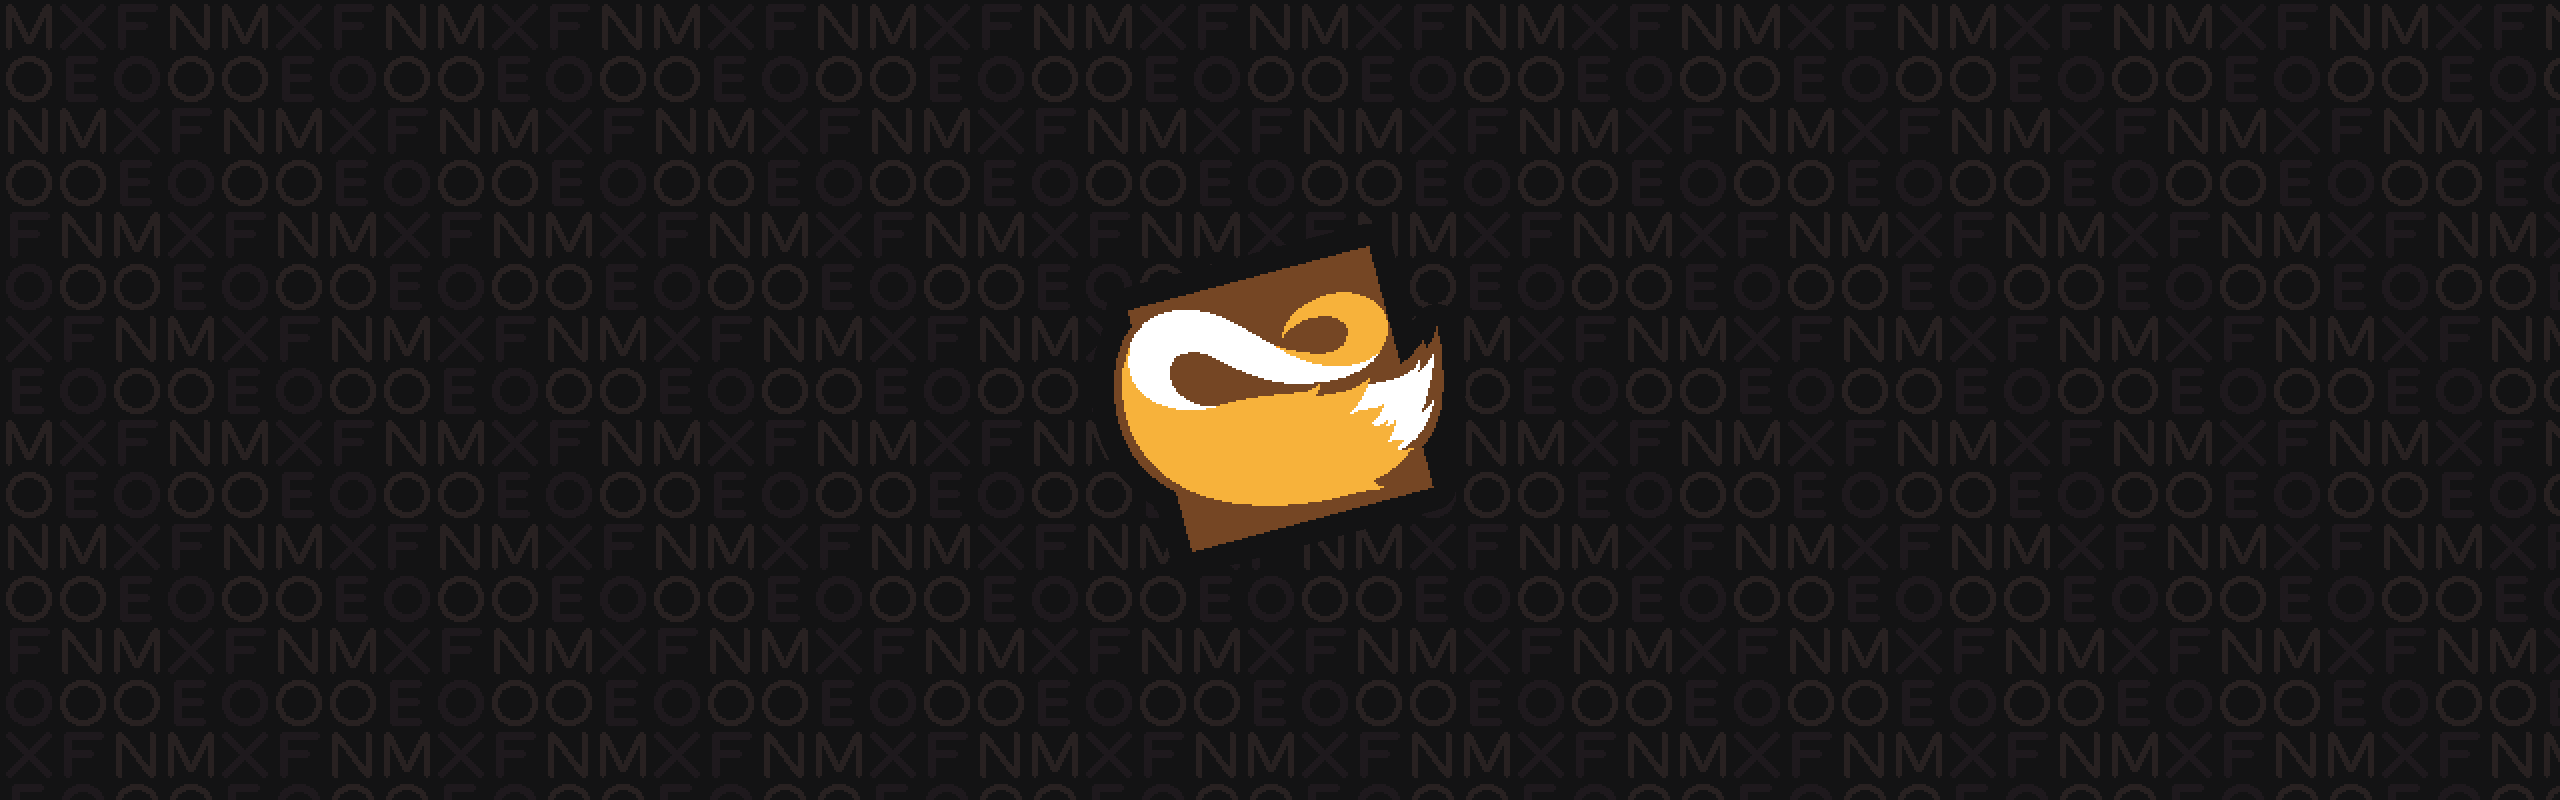
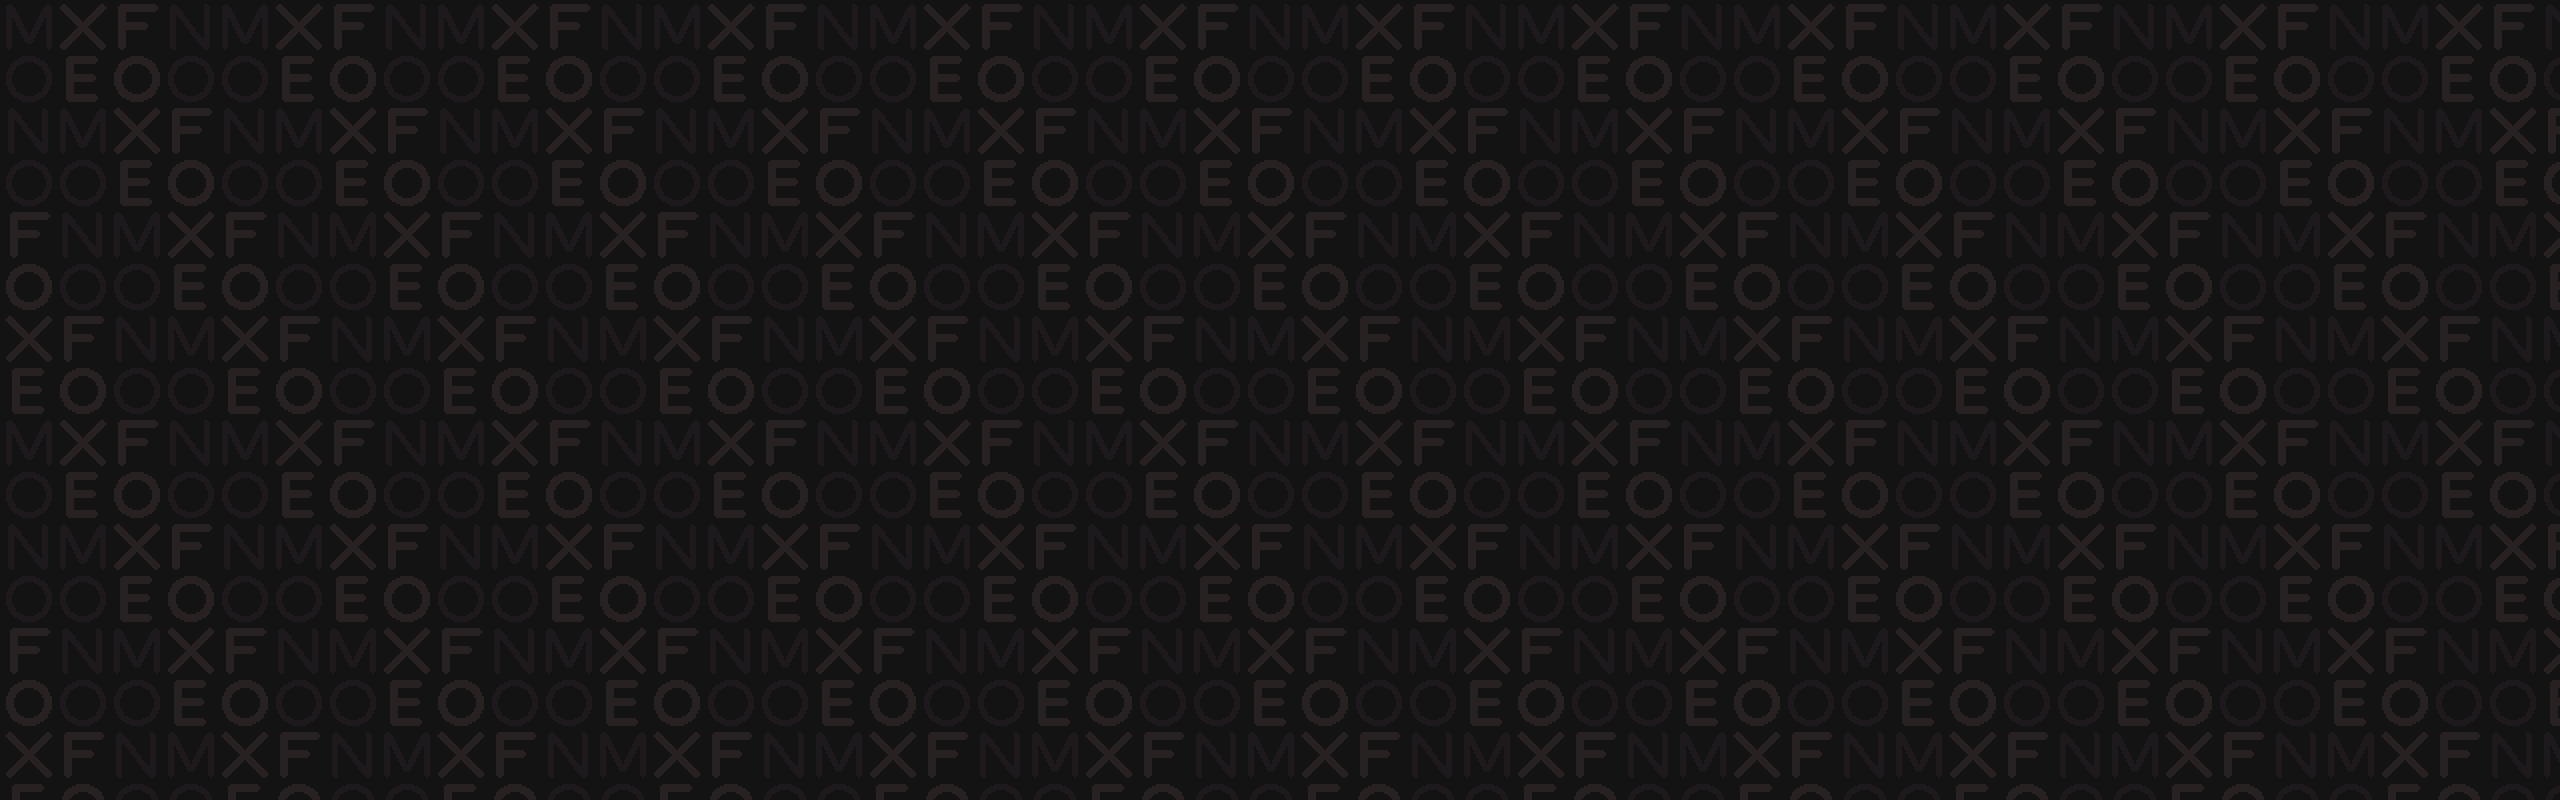
Finalized monofoxe page.

Changed region(s): [[0.4375, 0.3125, 0.5625, 0.6875]]

diff --git a/docs/monofoxe/index.html b/docs/monofoxe/index.html
@@ -13,35 +13,39 @@ Any manual changes WILL be lost.
 
 <header class="sticky top-0 font-foxe z-50"> <nav class="bg-foxe-dark text-foxe-light px-4 lg:py-1.5 w-full shadow-2xl"> <div class="max-w-screen-xl mx-auto flex items-center"> <!-- Logo --> <a href="/" class="mr-6 flex-shrink-0 select-none"> <img src="/assets/site/logo-header.png" class="h-16 lg:h-20" /> </a> <!-- Desktop Navigation --> <div class="hidden lg:flex flex-col flex-1 text-base"> <!-- Line --> <div class="h-7"></div> <div class="h-[1px] bg-foxe-light rounded-2xl mb-1.5 justify-center"></div> <!-- Links --> <div class="flex space-x-4 items-center"> <p class="text-foxe-medium text-3xl font-bold select-none">/</p> <a href="/games/" class="foxe-header-link relative group px-4 py-2"> <img src="/assets/site/crown.png" class="foxe-header-crown" alt="crown" /> games </a> <p class="text-foxe-medium text-3xl font-bold select-none">/</p> <a href="/monofoxe/" class="foxe-header-link relative group px-4 py-2"> <img src="/assets/site/crown.png" class="foxe-header-crown" alt="crown" /> monofoxe </a> <p class="text-foxe-medium text-3xl font-bold select-none">/</p> <a href="/software/" class="foxe-header-link relative group px-4 py-2"> <img src="/assets/site/crown.png" class="foxe-header-crown" alt="crown" /> software </a> <p class="text-foxe-medium text-3xl font-bold select-none">/</p> <a href="/contact/" class="foxe-header-link relative group px-4 py-2"> <img src="/assets/site/crown.png" class="foxe-header-crown" alt="crown" /> contact </a> <p class="text-foxe-medium text-3xl font-bold select-none">/</p> </div> </div> <!-- Mobile Navigation --> <div class="lg:hidden ml-auto px-2 flex-shrink-0"> <label class="ml-auto px-4 flex-shrink-0 h-4"> <input class="peer hidden" type="checkbox" id="mobile-menu" /> <div id="menu-toggle" class="text-2xl focus:outline-none foxe-header-link select-none"> ☰ </div> <div class="peer-checked:translate-x-0 peer-checked:*:translate-y-0 fixed w-full left-0 top-20 z-10 overflow-hidden pointer-events-none peer-checked:pointer-events-auto"> <div class="-translate-y-full relative transition-transform duration-250 ease-in-out font-normal divide-y bg-foxe-dark divide-foxe-medium"> <ul class="py-2 block" aria-labelledby="dropdownLargeButton"> <li> <a href="/games/" class="block foxe-header-link relative group px-4 py-2"> <div class="flex space-x-4 items-center"> <p class="text-foxe-medium text-3xl font-bold pl-4 pr-4 select-none">/</p> games </div> </a> </li> <div class="mx-14 my-0 w-1/3 min-w-64 border-t-2 border-foxe-medium"></div> <li> <a href="/monofoxe/" class="block foxe-header-link relative group px-4 py-2"> <div class="flex space-x-4 items-center"> <p class="text-foxe-medium text-3xl font-bold pl-4 pr-4 select-none">/</p> monofoxe </div> </a> </li> <div class="mx-14 my-0 w-1/3 min-w-64 border-t-2 border-foxe-medium"></div> <li> <a href="/software/" class="block foxe-header-link relative group px-4 py-2"> <div class="flex space-x-4 items-center"> <p class="text-foxe-medium text-3xl font-bold pl-4 pr-4 select-none">/</p> software </div> </a> </li> <div class="mx-14 my-0 w-1/3 min-w-64 border-t-2 border-foxe-medium"></div> <li> <a href="/contact/" class="block foxe-header-link relative group px-4 py-2"> <div class="flex space-x-4 items-center"> <p class="text-foxe-medium text-3xl font-bold pl-4 pr-4 select-none">/</p> contact </div> </a> </li> </ul> </div> </div> </label> </div> </div> </nav> </header>
 
-<body class="bg-foxe-dark text-foxe-light font-foxe min-h-screen flex flex-col overflow-x-hidden">
-	<main class="py-0 flex-grow pb-32 foxe-diamonds-bg">
+<body class="bg-foxe-dark text-foxe-light font-monofoxe font-light min-h-screen flex flex-col overflow-x-hidden">
+	<main class="py-0 flex-grow pb-32">
 		<div class="foxe-banner-container mb-16">
 			<img src="/assets/monofoxe/banner.png" class="foxe-banner" alt="banner" />
+			<img src="/assets/monofoxe/logo.png" class="foxe-banner-logo -translate-y-1/2" alt="logo" />
 		</div>
 
 		<div class="max-w-screen-xl mx-auto lg:px-32 px-8">
 			<p class="text-xl mt-8">
 				This is Monofoxe - a game engine based on Monogame Framework. Its main goal is to greatly simplify
 				working with Monogame and to provide a basic set of tools enabling you to just 
-				<span class="text-foxe-accent"> create a new project and make a game</span> 
+				<span class="text-monofoxe-accent"> create a new project and make a game</span> 
 				without removing low-level access to the framework. 
 				Monofoxe is extremely extensible and fully compatible with Monogame, which makes it equally great 
 				for both small games and big long-term projects. 
 			</p>
-			<p class="text-xl mt-8">
-				Get Monofoxe for free (wow!) on our Github and join our Discord server is you have any questions:
+			<p class="text-xl my-8">
+				Get Monofoxe for free (wow!) on our Github and join our Discord server if you have any questions:
 			</p>
-			<p class="text-xl mt-8">
-				
-			</p>
-			<div class="flex justify-evenly">
-				<a href="https://github.com/Martenfur/battery-fella"><img src="/assets/site/github.png"
-						class="foxe-link-button h-10.5 px-4 object-contain" /></a>
+
+			<div class="flex items-center justify-center text-3xl mt-6 pl-4">
+				<img src="/assets/site/github-logo.png" class="h-12" />
+				<a href="https://github.com/Martenfur/Monofoxe" class="text-monofoxe-accent ml-3 hover:underline">Get Monofoxe</a>
+			</div>
+
+			<div class="flex items-center justify-center text-3xl mt-6 pl-4">
+				<img src="/assets/site/discord.png" class="h-12" />
+				<a href="https://discord.gg/F9tPYaD" class="text-monofoxe-accent ml-3 hover:underline">Join Discord</a>
 			</div>
 		</div>
 	</main>
 
-	<footer class="text-foxe-light bottom-0 w-full pt-4 px-8 bg-[url('/assets/site/bg.png')] bg-[length:64px_64px] bg-repeat"> <div class="flex flex-col h-28 items-center text-center justify-center text-base"> <p>This site does not use any cookies, javascript or tracking. We respect you :)</p> <p class="mt-2">The Fox Society © 2025</p> </div> </footer>
+	<footer class="font-foxe text-foxe-light bottom-0 w-full pt-4 px-8 bg-[url('/assets/site/bg.png')] bg-[length:64px_64px] bg-repeat"> <div class="flex flex-col h-28 items-center text-center justify-center text-base"> <p>This site does not use any cookies, javascript or tracking. We respect you :)</p> <p class="mt-2">The Fox Society © 2025</p> </div> </footer>
 
 </body>
 

diff --git a/docs/output.css b/docs/output.css
@@ -1,5 +1,6 @@
 /*! tailwindcss v4.1.7 | MIT License | https://tailwindcss.com */
 @import url("https://fonts.googleapis.com/css2?family=Asul:wght@400;700&display=swap");
+@import url("https://fonts.googleapis.com/css2?family=Lexend:wght@100..900&display=swap");
 @layer properties;
 @layer theme, base, components, utilities;
 @layer theme {
@@ -22,6 +23,7 @@
     --text-3xl--line-height: calc(2.25 / 1.875);
     --text-4xl: 2.25rem;
     --text-4xl--line-height: calc(2.5 / 2.25);
+    --font-weight-light: 300;
     --font-weight-normal: 400;
     --font-weight-bold: 700;
     --radius-2xl: 1rem;
@@ -37,6 +39,8 @@
     --color-foxe-light: #E3E3E3;
     --color-foxe-accent: #E60076;
     --font-hyperflex: "Unispace", sans-serif;
+    --font-monofoxe: "Lexend", sans-serif;
+    --color-monofoxe-accent: #F7B23B;
   }
 }
 @layer base {
@@ -230,6 +234,9 @@
   .my-0 {
     margin-block: calc(var(--spacing) * 0);
   }
+  .my-8 {
+    margin-block: calc(var(--spacing) * 8);
+  }
   .mt-2 {
     margin-top: calc(var(--spacing) * 2);
   }
@@ -296,6 +303,9 @@
   .h-10\.5 {
     height: calc(var(--spacing) * 10.5);
   }
+  .h-12 {
+    height: calc(var(--spacing) * 12);
+  }
   .h-16 {
     height: calc(var(--spacing) * 16);
   }
@@ -343,6 +353,14 @@
   }
   .border-collapse {
     border-collapse: collapse;
+  }
+  .-translate-y-1 {
+    --tw-translate-y: calc(var(--spacing) * -1);
+    translate: var(--tw-translate-x) var(--tw-translate-y);
+  }
+  .-translate-y-1\/2 {
+    --tw-translate-y: calc(calc(1/2 * 100%) * -1);
+    translate: var(--tw-translate-x) var(--tw-translate-y);
   }
   .-translate-y-full {
     --tw-translate-y: -100%;
@@ -452,9 +470,6 @@
   .pt-4 {
     padding-top: calc(var(--spacing) * 4);
   }
-  .pt-8 {
-    padding-top: calc(var(--spacing) * 8);
-  }
   .pt-14 {
     padding-top: calc(var(--spacing) * 14);
   }
@@ -488,6 +503,9 @@
   .font-hyperflex {
     font-family: var(--font-hyperflex);
   }
+  .font-monofoxe {
+    font-family: var(--font-monofoxe);
+  }
   .text-2xl {
     font-size: var(--text-2xl);
     line-height: var(--tw-leading, var(--text-2xl--line-height));
@@ -516,6 +534,10 @@
     --tw-font-weight: var(--font-weight-bold);
     font-weight: var(--font-weight-bold);
   }
+  .font-light {
+    --tw-font-weight: var(--font-weight-light);
+    font-weight: var(--font-weight-light);
+  }
   .font-normal {
     --tw-font-weight: var(--font-weight-normal);
     font-weight: var(--font-weight-normal);
@@ -528,6 +550,9 @@
   }
   .text-foxe-medium {
     color: var(--color-foxe-medium);
+  }
+  .text-monofoxe-accent {
+    color: var(--color-monofoxe-accent);
   }
   .underline {
     text-decoration-line: underline;

diff --git a/src/pages/monofoxe/index.html b/src/pages/monofoxe/index.html
@@ -8,30 +8,34 @@
 
 {{header}}
 
-<body class="bg-foxe-dark text-foxe-light font-foxe min-h-screen flex flex-col overflow-x-hidden">
-	<main class="py-0 flex-grow pb-32 foxe-diamonds-bg">
+<body class="bg-foxe-dark text-foxe-light font-monofoxe font-light min-h-screen flex flex-col overflow-x-hidden">
+	<main class="py-0 flex-grow pb-32">
 		<div class="foxe-banner-container mb-16">
 			<img src="/assets/monofoxe/banner.png" class="foxe-banner" alt="banner" />
+			<img src="/assets/monofoxe/logo.png" class="foxe-banner-logo -translate-y-1/2" alt="logo" />
 		</div>
 
 		<div class="max-w-screen-xl mx-auto lg:px-32 px-8">
 			<p class="text-xl mt-8">
 				This is Monofoxe - a game engine based on Monogame Framework. Its main goal is to greatly simplify
 				working with Monogame and to provide a basic set of tools enabling you to just 
-				<span class="text-foxe-accent"> create a new project and make a game</span> 
+				<span class="text-monofoxe-accent"> create a new project and make a game</span> 
 				without removing low-level access to the framework. 
 				Monofoxe is extremely extensible and fully compatible with Monogame, which makes it equally great 
 				for both small games and big long-term projects. 
 			</p>
-			<p class="text-xl mt-8">
-				Get Monofoxe for free (wow!) on our Github and join our Discord server is you have any questions:
+			<p class="text-xl my-8">
+				Get Monofoxe for free (wow!) on our Github and join our Discord server if you have any questions:
 			</p>
-			<p class="text-xl mt-8">
-				
-			</p>
-			<div class="flex justify-evenly">
-				<a href="https://github.com/Martenfur/battery-fella"><img src="/assets/site/github.png"
-						class="foxe-link-button h-10.5 px-4 object-contain" /></a>
+
+			<div class="flex items-center justify-center text-3xl mt-6 pl-4">
+				<img src="/assets/site/github-logo.png" class="h-12" />
+				<a href="https://github.com/Martenfur/Monofoxe" class="text-monofoxe-accent ml-3 hover:underline">Get Monofoxe</a>
+			</div>
+
+			<div class="flex items-center justify-center text-3xl mt-6 pl-4">
+				<img src="/assets/site/discord.png" class="h-12" />
+				<a href="https://discord.gg/F9tPYaD" class="text-monofoxe-accent ml-3 hover:underline">Join Discord</a>
 			</div>
 		</div>
 	</main>

diff --git a/docs/games/index.html b/docs/games/index.html
@@ -190,7 +190,7 @@ Any manual changes WILL be lost.
 		</div>
 	</main>
 
-	<footer class="text-foxe-light bottom-0 w-full pt-4 px-8 bg-[url('/assets/site/bg.png')] bg-[length:64px_64px] bg-repeat"> <div class="flex flex-col h-28 items-center text-center justify-center text-base"> <p>This site does not use any cookies, javascript or tracking. We respect you :)</p> <p class="mt-2">The Fox Society © 2025</p> </div> </footer>
+	<footer class="font-foxe text-foxe-light bottom-0 w-full pt-4 px-8 bg-[url('/assets/site/bg.png')] bg-[length:64px_64px] bg-repeat"> <div class="flex flex-col h-28 items-center text-center justify-center text-base"> <p>This site does not use any cookies, javascript or tracking. We respect you :)</p> <p class="mt-2">The Fox Society © 2025</p> </div> </footer>
 
 </body>
 

diff --git a/docs/contact/index.html b/docs/contact/index.html
@@ -37,7 +37,7 @@ Any manual changes WILL be lost.
 		</div>
 	</main>
 
-	<footer class="text-foxe-light bottom-0 w-full pt-4 px-8 bg-[url('/assets/site/bg.png')] bg-[length:64px_64px] bg-repeat"> <div class="flex flex-col h-28 items-center text-center justify-center text-base"> <p>This site does not use any cookies, javascript or tracking. We respect you :)</p> <p class="mt-2">The Fox Society © 2025</p> </div> </footer>
+	<footer class="font-foxe text-foxe-light bottom-0 w-full pt-4 px-8 bg-[url('/assets/site/bg.png')] bg-[length:64px_64px] bg-repeat"> <div class="flex flex-col h-28 items-center text-center justify-center text-base"> <p>This site does not use any cookies, javascript or tracking. We respect you :)</p> <p class="mt-2">The Fox Society © 2025</p> </div> </footer>
 
 </body>
 

diff --git a/docs/software/index.html b/docs/software/index.html
@@ -57,7 +57,7 @@ Any manual changes WILL be lost.
 		</div>
 	</main>
 
-	<footer class="text-foxe-light bottom-0 w-full pt-4 px-8 bg-[url('/assets/site/bg.png')] bg-[length:64px_64px] bg-repeat"> <div class="flex flex-col h-28 items-center text-center justify-center text-base"> <p>This site does not use any cookies, javascript or tracking. We respect you :)</p> <p class="mt-2">The Fox Society © 2025</p> </div> </footer>
+	<footer class="font-foxe text-foxe-light bottom-0 w-full pt-4 px-8 bg-[url('/assets/site/bg.png')] bg-[length:64px_64px] bg-repeat"> <div class="flex flex-col h-28 items-center text-center justify-center text-base"> <p>This site does not use any cookies, javascript or tracking. We respect you :)</p> <p class="mt-2">The Fox Society © 2025</p> </div> </footer>
 
 </body>
 

diff --git a/docs/index.html b/docs/index.html
@@ -85,7 +85,7 @@ Any manual changes WILL be lost.
 
 	</main>
 
-	<footer class="text-foxe-light bottom-0 w-full pt-4 px-8 bg-[url('/assets/site/bg.png')] bg-[length:64px_64px] bg-repeat"> <div class="flex flex-col h-28 items-center text-center justify-center text-base"> <p>This site does not use any cookies, javascript or tracking. We respect you :)</p> <p class="mt-2">The Fox Society © 2025</p> </div> </footer>
+	<footer class="font-foxe text-foxe-light bottom-0 w-full pt-4 px-8 bg-[url('/assets/site/bg.png')] bg-[length:64px_64px] bg-repeat"> <div class="flex flex-col h-28 items-center text-center justify-center text-base"> <p>This site does not use any cookies, javascript or tracking. We respect you :)</p> <p class="mt-2">The Fox Society © 2025</p> </div> </footer>
 
 
 </body>

diff --git a/src/pages/input.css b/src/pages/input.css
@@ -1,4 +1,6 @@
 @import url("https://fonts.googleapis.com/css2?family=Asul:wght@400;700&display=swap");
+@import url("https://fonts.googleapis.com/css2?family=Lexend:wght@100..900&display=swap");
+
 @import "tailwindcss";
 
 @font-face {
@@ -14,8 +16,10 @@
 	--color-foxe-medium: #212123;
 	--color-foxe-light: #E3E3E3;
 	--color-foxe-accent: #E60076;
-
+	
 	--font-hyperflex: "Unispace", sans-serif;
+	--font-monofoxe: "Lexend", sans-serif;
+	--color-monofoxe-accent: #F7B23B;
 }
 
 @layer components 

diff --git a/src/templates/footer.html b/src/templates/footer.html
@@ -1,4 +1,4 @@
-<footer class="text-foxe-light bottom-0 w-full pt-4 px-8 bg-[url('/assets/site/bg.png')] bg-[length:64px_64px] bg-repeat">
+<footer class="font-foxe text-foxe-light bottom-0 w-full pt-4 px-8 bg-[url('/assets/site/bg.png')] bg-[length:64px_64px] bg-repeat">
 	<div class="flex flex-col h-28 items-center text-center justify-center text-base">
 		<p>This site does not use any cookies, javascript or tracking. We respect you :)</p>
 		<p class="mt-2">The Fox Society © 2025</p>
